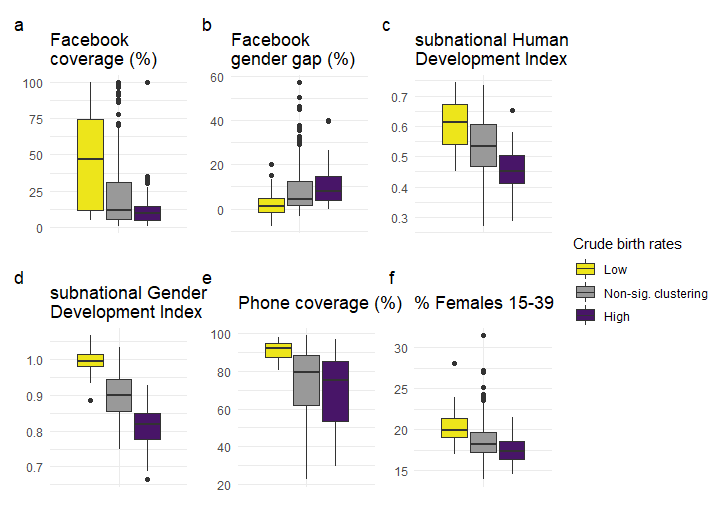
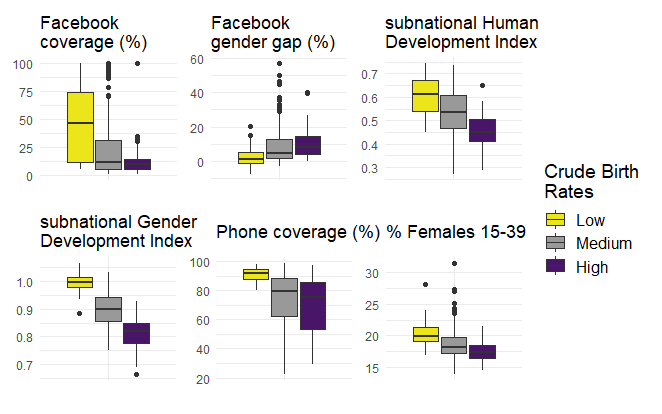
Finishing touch

diff --git a/index.html b/index.html
@@ -59,7 +59,7 @@
   </article>
   
     <article>
-    <header><h3>Sub-national Facebook coverage in SSA</h3></header>
+    <header><h3>Sub-national Facebook exposure in SSA</h3></header>
 	<img src="fb-coverage-map.png" alt="Italian Trulli">
 	<figcaption><em>Observed % with a Facebook account in 2021</em></figcaption>
   </article>
@@ -73,31 +73,31 @@
   </article>
   
     <article>
-    <header><h3>Descriptive relations between included variables and subnational birth rates</h3></header>
+    <header><h3>Higher Facebook exposure in low birth rate regions</h3></header>
 	<img src="descriptive-boxplot.png" alt="Italian Trulli">
+	<figcaption><em>Descriptive relations between crude birth rates and the included variables</em></figcaption>
   </article>
   
     <article>
     <header><h3>Methods & data</h3></header>
     <p>To create subnational social media indicators, we used Facebook’s advertisement platform. Facebook allows their users to search the number of active Facebook users in last month disaggregated by various geographic and demographic characteristics (detailed information 
-	can <a href="https://developers.facebook.com/docs/marketing-apis">here</a> be found). We created active users estimates for individuals aged 15-39 for 311 subnational regions in 29 SSA countries.
-	<br>The Facebook data was combined with data from the <a href="https://dhsprogram.com/">DHS</a> and <a href="https://mics.unicef.org/">MICS</a> surveys to create subnational crude birth rates, and with data from the <a href="https://www.worldbank.org/en/home">World Bank</a>
-	and the <a href="https://www.afrobarometer.org/">Afrobarometer</a> to create the independent variables.
-	<br><br> Method: multilevel regression models and OLS regression models with Crude Birth Rates as dependent variable are applied.
+	can be found <a href="https://developers.facebook.com/docs/marketing-apis">here</a>). We created active users estimates for individuals aged 15-39 over 311 subnational regions in 29 SSA countries.
+	<br><br>We combined the Facebook data with data from the <a href="https://dhsprogram.com/">DHS</a> and <a href="https://mics.unicef.org/">MICS</a> surveys to create subnational crude birth rates, and with data from the <a href="https://www.worldbank.org/en/home">World Bank</a>
+	and the <a href="https://www.afrobarometer.org/">Afrobarometer</a> to create the independent variables. We used multilevel and OLS regression models to test the relation between birth rates and social media exposure.
 	</p>
   </article>
 
     <article>
     <header><h3>Regression results</h3></header>
-	<img src="regression-results.png" alt="Italian Trulli">
-	<p> The results revealed that higher social media coverage and smaller gender gaps in social media coverage are significantly associated with lower birth rates.
+	<p> The results reveal that higher social media exposure and smaller gender gaps in exposure are significantly associated with lower birth rates.
+	<br><br><img src="regression-results2.png" alt="Italian Trulli">
   </article>
   
   
     <article>
     <header><h3>Discussion</h3></header>
-    <p> A possible explanation in line with diffusion theories is that social media enable their users to form (online) communities in which information and ideas can be spread irrespective of an individual's place of living. But, we cannot exclude the alternative interpretation that individuals who had different norms and values were more likely to be exposed to social media.
-	<br><br>Future thoughts and research are required to disentagle the mechanisms that explain the association between fertility levels and social media. Understanding what is going on is urgent because social media is becoming more and more prevalent en this study showed potential consequences in terms of birth rates, and thus also potentially population growth.   
+    <p> We find that social media exposure relates to lower birth rates in SSA. A possible explanation is that social media enable their users to form (online) communities in which information and ideas can be spread irrespective of individuals' place of living. But, we cannot exclude that individuals who had already different norms and values are more likely to be exposed to social media.
+	<br><br>Future thoughts and research are required to disentagle the mechanisms that explain the association between social media and birth rates. Understanding what is going on is urgent as social media is becoming more and more prevalent, and we showed that this could have real consequences in terms of birth rates and thus as well population growth.   
   </article>
  
   
